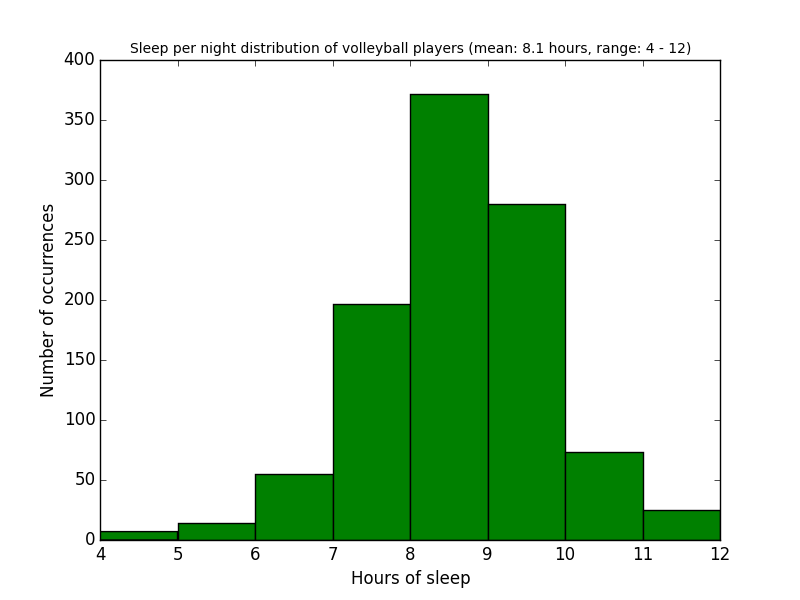
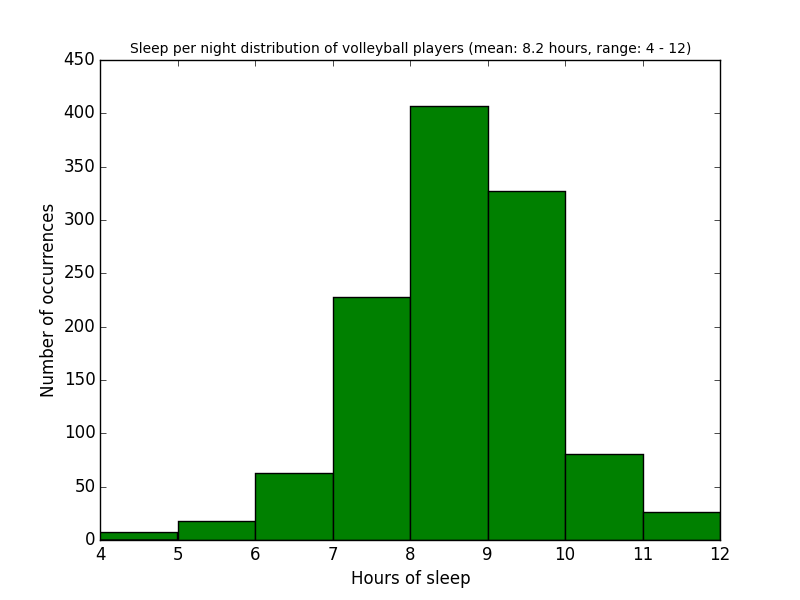
More problems
I'm just doing graphing and answer getting, and I'll write this up
eventually

diff --git a/Python/nightBefore.py b/Python/nightBefore.py
@@ -1,0 +1,60 @@
+import numpy as np
+import matplotlib.pyplot as plt
+import datetime
+import pylab
+import csv
+
+def graphList(list, name):
+	plt.figure()
+	plt.xlabel('Hours of sleep')
+	plt.ylabel('Occurences')
+	plt.title(name)
+	n, bins, patches = plt.hist(list, bins = int(max(list) + 1), range = (int(min(list) - 1), int(max(list) + 1))) 
+	pylab.savefig(name + '.png')
+
+def getEventList(filename):
+	socDateList = []
+	with open(filename, 'rb') as socTeamFile:
+		socRead = csv.reader(socTeamFile, delimiter = ',')
+		for row in socRead:
+			try:
+				socDateList.append(datetime.datetime.strptime(row[1], "%m/%d/%Y") - datetime.timedelta(days = 1))
+			except:
+				next
+	return socDateList
+
+def checkEventList(filename, eventList, num):
+	gameSlp = []
+	normSlp = []
+	with open(filename, 'rb') as soccerFile:
+		soccerRead = csv.reader(soccerFile, delimiter = ',')
+		for row in soccerRead:
+			try:
+				tmp = datetime.datetime.strptime(row[2], "%m/%d/%Y")
+				if tmp in eventList:
+					gameSlp.append(float(row[num]))
+				else:
+					normSlp.append(float(row[num]))
+			except:
+				next
+	return normSlp, gameSlp
+
+def graphFile(filename, eventfilename, name, num):
+	tb1, tb2 = checkEventList(filename, getEventList(eventfilename), num)
+	graphList(tb1, "%s %d" % (name, 1))
+	graphList(tb2, "%s %d" % (name, 2))
+
+
+
+playerSoccerData = 'C:\\Users\\neil.xu\\Documents\\GitHub\\PACC2015\\welcome\\player_data_soccer.csv'
+teamSoccerData =  'C:\\Users\\neil.xu\\Documents\\GitHub\\PACC2015\\welcome\\team_results_soccer.csv' 
+playerVolleyballData = 'C:\\Users\\neil.xu\\Documents\\GitHub\\PACC2015\\welcome\\player_data_volleyball.csv'
+teamVolleyballData = 'C:\\Users\\neil.xu\\Documents\\GitHub\\PACC2015\\welcome\\team_results_volleyball.csv'
+graphFile(playerSoccerData, teamSoccerData, 'soccerdat', 8)
+graphFile(playerVolleyballData, teamVolleyballData, 'volleyballdat', 8)
+graphFile(playerSoccerData, teamSoccerData, 'soccerdatStress', 6)
+graphFile(playerVolleyballData, teamVolleyballData, 'volleyballdatStress', 6)
+
+
+
+

diff --git a/Python/awayGame.py b/Python/awayGame.py
@@ -1,0 +1,51 @@
+import numpy as np
+import matplotlib.pyplot as plt
+import datetime
+import pylab
+import csv
+from nightBefore import getEventList
+import scipy
+
+playerSoccerData = 'C:\\Users\\neil.xu\\Documents\\GitHub\\PACC2015\\welcome\\player_data_soccer.csv'
+teamSoccerData =  'C:\\Users\\neil.xu\\Documents\\GitHub\\PACC2015\\welcome\\team_results_soccer.csv' 
+playerVolleyballData = 'C:\\Users\\neil.xu\\Documents\\GitHub\\PACC2015\\welcome\\player_data_volleyball.csv'
+teamVolleyballData = 'C:\\Users\\neil.xu\\Documents\\GitHub\\PACC2015\\welcome\\team_results_volleyball.csv'
+
+def getDateDistance(file):
+	result = []
+	with open(file, 'rb') as afile:
+		read = csv.reader(afile, delimiter = ',')
+		for row in read:
+			try:
+				date = datetime.datetime.strptime(row[1], '%m/%d/%Y')
+				if str(row[4]) != 'Seattle, WA':
+					result.append(date)
+			except:
+				next
+	return result
+
+
+def getAverageStress(list, file):
+	tmp = []
+
+	with open(file, 'rb') as afile:
+		read = csv.reader(afile, delimiter = ',')
+		for row in read:
+			try:
+				date = datetime.datetime.strptime(row[2], '%m/%d/%Y')
+				if date in list:
+					tmp.append([date, int(row[6])])
+			except:
+				next
+	result = {}
+	for element in tmp:
+		if element[0] not in result.keys():
+			result[element[0]] = [element[1], 1]
+		else:
+			result[element[0]] = [result[element[0]][0] + element[1], result[element[0]][1] + 1]
+	listresult = {}
+	for k in result.keys():
+		listresult[k] = result[k][0] / result[k][1]
+	return listresult
+
+print getAverageStress(getDateDistance(teamSoccerData), playerSoccerData)

diff --git a/Python/volleyballHist.py b/Python/volleyballHist.py
@@ -17,7 +17,7 @@ with open('C:\\Users\\neil.xu\\Documents\\GitHub\\PACC2015\\welcome\\player_data
 	reader = csv.reader(soccerFile, delimiter=',')
 	for row in reader:
 		try:
-			sleepList.append(int(row[8]))
+			sleepList.append(float(row[8]))
 		except:
 			next
 	maxVal = max(sleepList)
@@ -29,7 +29,7 @@ with open('C:\\Users\\neil.xu\\Documents\\GitHub\\PACC2015\\welcome\\player_data
 			minId.append(row[0])
 
 plt.figure()
-n, bins, patches = plt.hist(sleepList, bins=range(min(sleepList), max(sleepList) + 1, 1), normed=0, facecolor='green', alpha=1)
+n, bins, patches = plt.hist(sleepList, bins=range(int(min(sleepList)), int(max(sleepList)) + 1, 1), normed=0, facecolor='green', alpha=1)
 plt.xlabel('Hours of sleep')
 plt.ylabel('Number of occurrences')
 plt.rcParams["axes.titlesize"] = 10

diff --git a/Python/maxSleep.py b/Python/maxSleep.py
@@ -12,10 +12,10 @@ with open('C:\\Users\\neil.xu\\Documents\\GitHub\\PACC2015\\welcome\\player_data
 		for row in reader:
 			try:
 				if row[0] in soccerDict:
-					soccerDict[row[0]] = soccerDict[row[0]] + int(row[8])
+					soccerDict[row[0]] = soccerDict[row[0]] + float(row[8])
 					recordDict[row[0]] += 1
 				else:
-					soccerDict[row[0]] = int(row[8])
+					soccerDict[row[0]] = float(row[8])
 					recordDict[row[0]] = 1
 			except:
 				next
@@ -31,4 +31,4 @@ for key in soccerDict.keys():
 		maxSleep = soccerDict[key] / recordDict[key]
 		totalHours = soccerDict[key]
 		maxID = key
-print "max sleep: %d\nID : %s\nTotal sleep: %d" % (maxSleep, maxID, totalHours)
+print "max sleep: %f\nID : %s\nTotal sleep: %f" % (maxSleep, maxID, totalHours)

diff --git a/Python/weekend.py b/Python/weekend.py
@@ -28,11 +28,11 @@ with open('C:\\Users\\neil.xu\\Documents\\GitHub\\PACC2015\\welcome\\player_data
 		try:
 			day = datetime.datetime.strptime(row[2], "%m/%d/%Y").weekday()			
 			if int(day) == 5 or int(day) == 6:
-				addToDict(weekendDist, int(row[8]))
-				weekendList.append(int(row[8]))
+				addToDict(weekendDist, float(row[8]))
+				weekendList.append(float(row[8]))
 			else:
-				addToDict(weekDist, int(row[8]))
-				weekList.append(int(row[8]))
+				addToDict(weekDist, float(row[8]))
+				weekList.append(float(row[8]))
 		except:
 			next
 

diff --git a/Python/gameDayStress.py b/Python/gameDayStress.py
@@ -1,0 +1,6 @@
+from nightBefore import
+import numpy as np
+import matplotlib.pyplot as plt
+import datetime
+import pylab
+import csv
